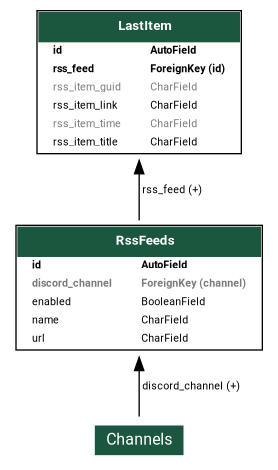
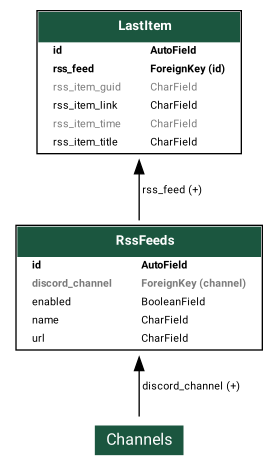
[RELEASE] v2.6.0
## [2.6.0] - 2026-06-02

### Changed

- Modular providers

### Removed

- Direct dependency, already covered by `allianceauth-discordbot`

diff --git a/aa_rss_to_discord/__init__.py b/aa_rss_to_discord/__init__.py
@@ -5,6 +5,6 @@ App init
 # Django
 from django.utils.translation import gettext_lazy as _
 
-__version__ = "2.5.2"
+__version__ = "2.6.0"
 __title__ = "RSS to Discord"
 __title_translated__ = _("RSS to Discord")

diff --git a/CHANGELOG.md b/CHANGELOG.md
@@ -43,6 +43,8 @@ Section Order:
 
 <!-- Your changes go here -->
 
+## [2.6.0] - 2026-06-02
+
 ### Changed
 
 - Modular providers
@@ -459,6 +461,7 @@ Run migrations after updating as usual.
 [2.5.0]: https://github.com/ppfeufer/aa-rss-to-discord/compare/v2.4.0...v2.5.0 "v2.5.0"
 [2.5.1]: https://github.com/ppfeufer/aa-rss-to-discord/compare/v2.5.0...v2.5.1 "v2.5.1"
 [2.5.2]: https://github.com/ppfeufer/aa-rss-to-discord/compare/v2.5.1...v2.5.2 "v2.5.2"
-[in development]: https://github.com/ppfeufer/aa-rss-to-discord/compare/v2.5.2...HEAD "In Development"
+[2.6.0]: https://github.com/ppfeufer/aa-rss-to-discord/compare/v2.5.2...v2.6.0 "v2.6.0"
+[in development]: https://github.com/ppfeufer/aa-rss-to-discord/compare/v2.6.0...HEAD "In Development"
 [keep a changelog]: http://keepachangelog.com/ "Keep a Changelog"
 [semantic versioning]: http://semver.org/ "Semantic Versioning"

diff --git a/README.md b/README.md
@@ -61,7 +61,7 @@ Make sure you're in the virtual environment (venv) of your Alliance Auth
 installation Then install the latest release directly from PyPi.
 
 ```shell
-pip install aa-rss-to-discord==2.5.2
+pip install aa-rss-to-discord==2.6.0
 ```
 
 ### Step 2: Configure Alliance Auth<a name="step-2-configure-alliance-auth"></a>
@@ -116,7 +116,7 @@ To update your existing installation of Alliance Auth RSS to Discord, first enab
 virtual environment (venv) of your Alliance Auth installation.
 
 ```bash
-pip install aa-rss-to-discord==2.5.2
+pip install aa-rss-to-discord==2.6.0
 
 python manage.py migrate
 ```